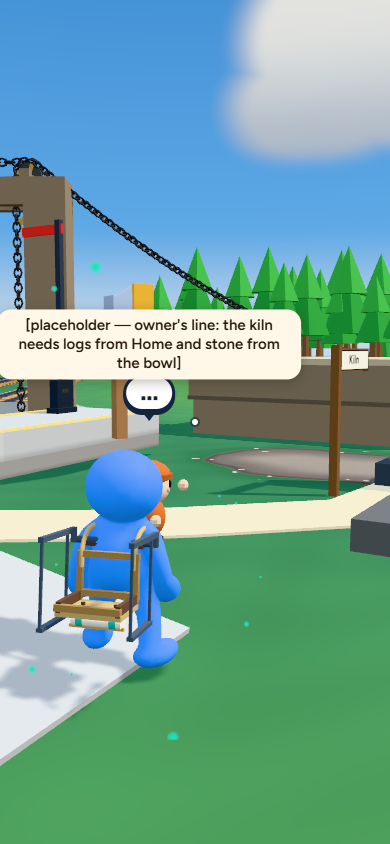
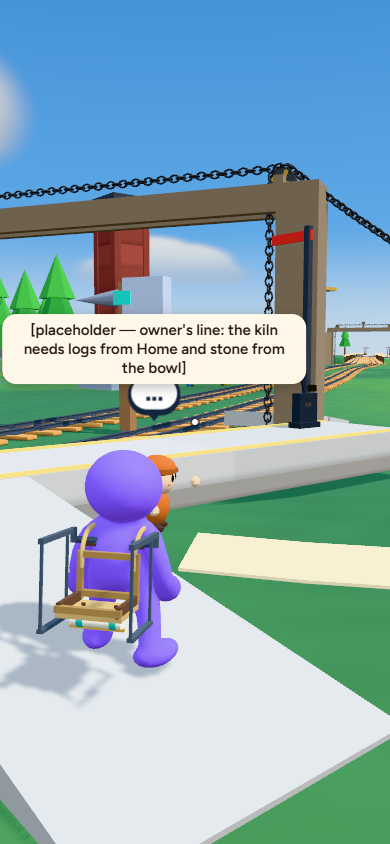
Fix resident talk update, pointing foreman Talk, and Quarry rack priority

diff --git a/src/entities/railway/station-guides.ts b/src/entities/railway/station-guides.ts
@@ -22,8 +22,8 @@ import { ORIGIN } from '../../place/layout.ts';
 import { H } from '../../place/terrain.ts';
 import type { Guy } from '../../place/folk.ts';
 
-/** Quarry halt: just off the trodden path to the "Kiln" post, 5.05 m off WORKS_RACK (reach 4 m) and 6.2 m off haltAt. */
-const KILN_HAND_AT = { x: 1085.0, z: 46.2 } as const;
+/** Quarry halt: beside the trodden path's start off the platform, 7.96 m off WORKS_RACK (reach 3.6 m + Talk 3.3 m = 6.9 m, zero overlap). */
+const KILN_HAND_AT = { x: 1084.2, z: 43.0 } as const;
 const KILN_HAND_COAT = '#c96b2c';
 const KILN_HAND_VOICE = folkVoice(230, 28, 1.0, 3200);
 

diff --git a/src/entities/railway/greeter.ts b/src/entities/railway/greeter.ts
@@ -161,7 +161,7 @@ export async function createTownGreeter(owner: OwnedView, read: GreeterRead) {
         camp.yaw = angleLerp(camp.yaw, Math.atan2(p.x - camp.x, p.z - camp.z), Math.min(1, dt * 5));
         camp.mood = handing > 0 ? 'give' : campSpeaking ? 'chat' : needsAxe ? 'wave' : 'idle';
       } else camp.mood = 'idle';
-      if (campSpeaking) talk.updateTalkCard();
+      talk.updateTalkCard();
     },
     lateUpdate() {
       sleeves.lateUpdate();

diff --git a/src/components/phase-guide/view.ts b/src/components/phase-guide/view.ts
@@ -150,9 +150,6 @@ export function createPhaseGuide<S extends string>(owner: OwnedView, opts: Phase
         stopBark();
       }
       const g = opts.body();
-      if (!active || !g?.on) {
-        if (speaking()) talk?.endTalk();
-      }
       if (!g || !cur) {
         if (speaking()) talk?.updateTalkCard();
         return;

diff --git a/docs/game-design/place.md b/docs/game-design/place.md
@@ -622,7 +622,7 @@ once-a-stage bubble is once per page. No collider. Serves DESIGN.md 7 (Telegraph
 The shared phase-guide helper ([`src/components/phase-guide/view.ts`](../../src/components/phase-guide/view.ts), stage
 queries in [`stages.ts`](../../src/components/phase-guide/stages.ts)) now drives Sleeves, the forge foreman and three
 Wave 1 station guides ([brief](../brainstorms/phase-guides.md)): the **kiln hand** at Quarry halt (beside the roller
-road path, 5.15 m off the rack, approach bark on stall stages, pointing up the cut/kiln/rack), the **roundhouse hand**
+road path, 7.96 m off the rack, approach bark on stall stages, pointing up the cut/kiln/rack), the **roundhouse hand**
 at Home's Roundhouse (NNE apron, 4.98 m off the garage post and clear of road 2 and the stall sockets, approach bark on
 stall/cradle/turn/steel stages), and **Hooter** upgraded on Ring Island (`…` + Talk over his existing whistle rota, no
 approach bark, keeping his existing `HOOTER` lines alongside placeholder stage lines for the Meet, steel works, steel
